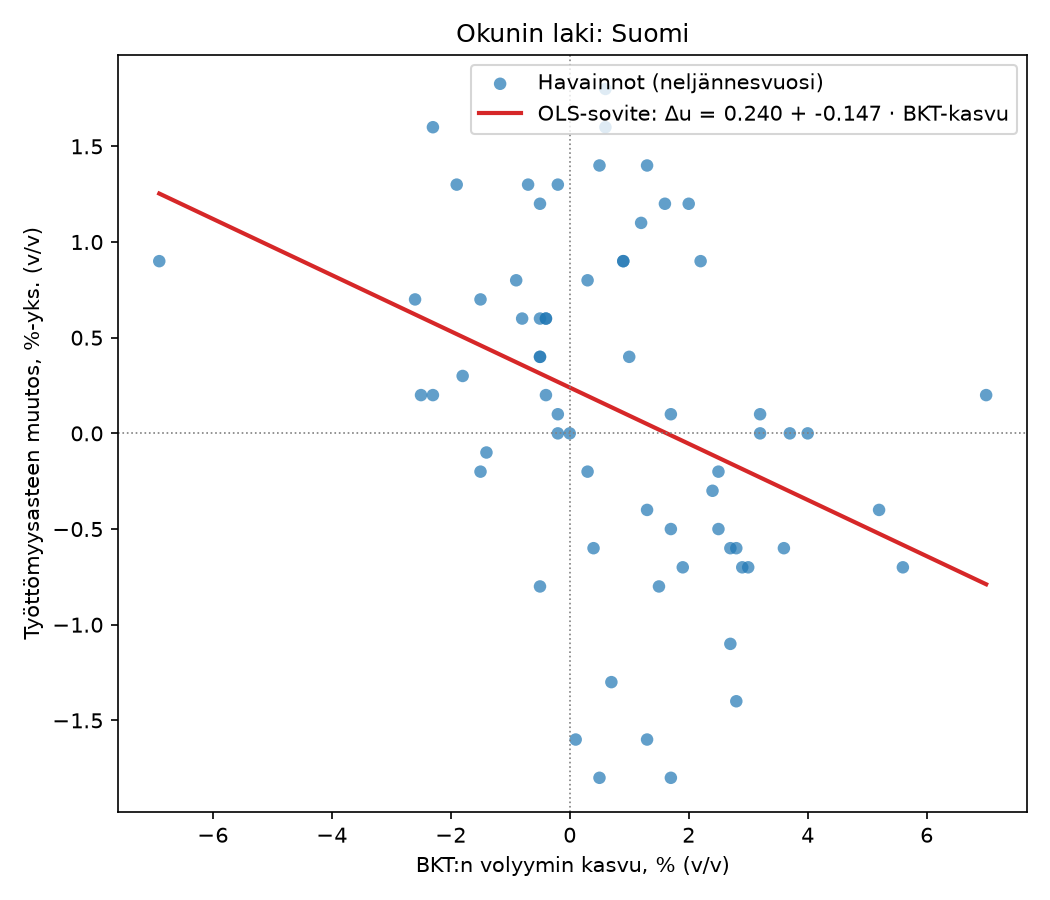
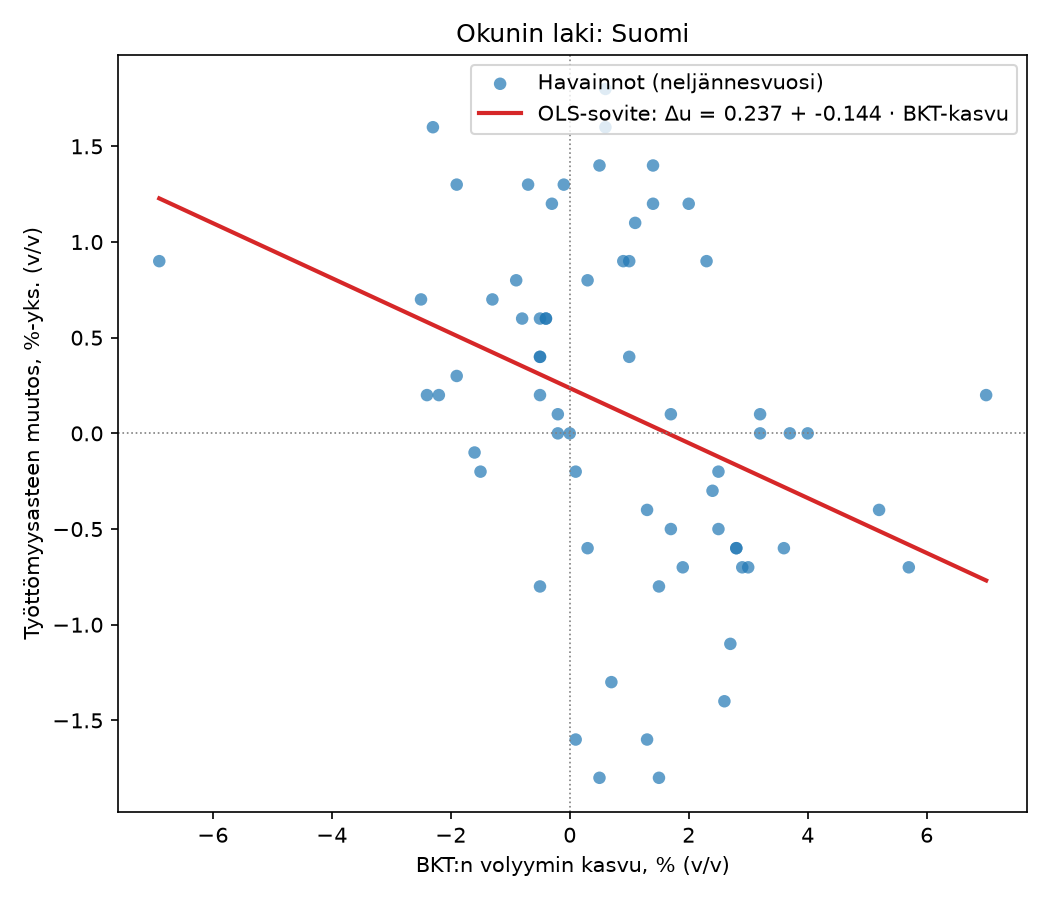
Päivitä tulokset.md ja kuvat (kuukausittainen ajo)

diff --git a/tulokset.md b/tulokset.md
@@ -1,6 +1,6 @@
 # Okunin lain analyysin tulokset — Suomi
 
-- **Ajettu:** 2026-09-03 19:08:21 UTC
+- **Ajettu:** 2026-10-01 11:25:38 UTC
 - **Datan viimeinen havainto (v/v-aineisto):** 2026Q2
 - **Datan viimeinen havainto (q/q-aineisto):** 2026Q2
 - **Lähde:** Tilastokeskuksen PxWeb-rajapinta (StatFin), haettu ajonaikaisesti — ei kovakoodattua tai simuloitua dataa.
@@ -15,11 +15,11 @@ Aikaväli: 2010Q1 – 2026Q2  N = 66
 
 | Termi | Kerroin | Keskivirhe | t-arvo | p-arvo |
 |---|---:|---:|---:|---:|
-| Vakio (a) | 0.2397 | 0.1103 | 2.172 | 0.0335 |
-| BKT-kasvu (b) | -0.1469 | 0.0471 | -3.117 | 0.0027 |
+| Vakio (a) | 0.2368 | 0.1107 | 2.139 | 0.0363 |
+| BKT-kasvu (b) | -0.1437 | 0.0474 | -3.033 | 0.0035 |
 
-- Selitysaste R²: 0.1318
-- Kynnyskasvu -a/b: **1.632 %/vuosi** (BKT:n kasvuvauhti, jolla työttömyysaste ei muutu)
+- Selitysaste R²: 0.1256
+- Kynnyskasvu -a/b: **1.648 %/vuosi** (BKT:n kasvuvauhti, jolla työttömyysaste ei muutu)
 
 ## 2. Robustisuustarkastelu
 
@@ -29,14 +29,14 @@ N = 66, selittäjiä (vakio mukaan lukien) k = 2, vapausasteet df_resid = N-k = 
 
 | Termi | Kerroin | OLS-SE | NW-SE | AM-SE (esivalk.) |
 |---|---:|---:|---:|---:|
-| const | 0.2397 | 0.1103 | 0.1817 | 0.2830 |
-| bkt_kasvu | -0.1469 | 0.0471 | 0.0222 | 0.0270 |
+| const | 0.2368 | 0.1107 | 0.1831 | 0.2880 |
+| bkt_kasvu | -0.1437 | 0.0474 | 0.0217 | 0.0262 |
 
 - Newey–West-viiveet L = 4; Andrews–Monahan-esivalkaisun jälkeiset viiveet L = 3
 - Päätulokseksi valittu (konservatiivisin): **Andrews–Monahan (esivalk.)** (suurempi SE kahdesta HAC-vaihtoehdosta BKT-kasvun kokonaisvaikutukselle)
-- Durbin–Watson: 0.466 (2.0 = ei autokorrelaatiota; <2 → positiivinen)
-- Breusch–Godfrey (L=4): LM=39.130, p=0.0000 (H0: ei jäljellä olevaa autokorrelaatiota)
-- Kynnyskasvu -a/Σb: **1.632 %/vuosi**
+- Durbin–Watson: 0.459 (2.0 = ei autokorrelaatiota; <2 → positiivinen)
+- Breusch–Godfrey (L=4): LM=39.535, p=0.0000 (H0: ei jäljellä olevaa autokorrelaatiota)
+- Kynnyskasvu -a/Σb: **1.648 %/vuosi**
 
 ### 2.2 Otosvertailu: koko aineisto / ilman 2020–2021 / covid-dummy
 
@@ -44,9 +44,9 @@ Keskivirheet ovat kunkin mallin konservatiivisimman HAC-vaihtoehdon mukaisia (su
 
 | Malli | Vakio a (SE) | BKT-kerroin b (SE) | Covid-dummy (SE) | R² | N | -a/Σb, %/v |
 |---|---:|---:|---:|---:|---:|---:|
-| Koko aineisto (v/v) | 0.240 (0.283) | -0.147 (0.027) | – | 0.1318 | 66 | 1.632 |
-| Ilman 2020–2021 | 0.206 (0.296) | -0.143 (0.040) | – | 0.0881 | 58 | 1.445 |
-| Covid-dummy mukana | 0.206 (0.313) | -0.142 (0.029) | 0.248 (0.423) | 0.1400 | 66 | 1.446 |
+| Koko aineisto (v/v) | 0.237 (0.288) | -0.144 (0.026) | – | 0.1256 | 66 | 1.648 |
+| Ilman 2020–2021 | 0.201 (0.297) | -0.137 (0.039) | – | 0.0810 | 58 | 1.464 |
+| Covid-dummy mukana | 0.203 (0.315) | -0.139 (0.027) | 0.250 (0.424) | 0.1340 | 66 | 1.457 |
 
 ### 2.3 Kausitasoituksen varmistus (q/q-sarjat)
 
@@ -63,20 +63,20 @@ N = 65, selittäjiä (vakio mukaan lukien) k = 6, vapausasteet df_resid = N-k = 
 
 | Termi | Kerroin | OLS-SE | NW-SE | AM-SE (esivalk.) |
 |---|---:|---:|---:|---:|
-| const | 0.1066 | 0.0474 | 0.0451 | 0.0415 |
-| bkt_kasvu_qoq_L0 | -0.1100 | 0.0359 | 0.0322 | 0.0312 |
-| bkt_kasvu_qoq_L1 | -0.0905 | 0.0367 | 0.0353 | 0.0381 |
-| bkt_kasvu_qoq_L2 | -0.0747 | 0.0362 | 0.0244 | 0.0243 |
-| bkt_kasvu_qoq_L3 | -0.0222 | 0.0367 | 0.0217 | 0.0218 |
-| bkt_kasvu_qoq_L4 | -0.0805 | 0.0357 | 0.0240 | 0.0225 |
+| const | 0.1053 | 0.0483 | 0.0452 | 0.0414 |
+| bkt_kasvu_qoq_L0 | -0.1035 | 0.0363 | 0.0322 | 0.0313 |
+| bkt_kasvu_qoq_L1 | -0.1000 | 0.0371 | 0.0338 | 0.0363 |
+| bkt_kasvu_qoq_L2 | -0.0764 | 0.0367 | 0.0251 | 0.0253 |
+| bkt_kasvu_qoq_L3 | -0.0246 | 0.0371 | 0.0227 | 0.0229 |
+| bkt_kasvu_qoq_L4 | -0.0783 | 0.0360 | 0.0237 | 0.0220 |
 
 - Newey–West-viiveet L = 3; Andrews–Monahan-esivalkaisun jälkeiset viiveet L = 3
 - Päätulokseksi valittu (konservatiivisin): **Andrews–Monahan (esivalk.)** (suurempi SE kahdesta HAC-vaihtoehdosta BKT-kasvun kokonaisvaikutukselle)
-- Durbin–Watson: 2.115 (2.0 = ei autokorrelaatiota; <2 → positiivinen)
-- Breusch–Godfrey (L=3): LM=3.999, p=0.2616 (H0: ei jäljellä olevaa autokorrelaatiota)
-- BKT-kasvun pitkän aikavälin vaikutus (Σb, 5 viivettä, Andrews–Monahan (esivalk.)-SE): Σb = -0.3779, SE = 0.0787, t = -4.803, p = 0.0000
-- Viiveiden yhteismerkitsevyys (Wald F, H0: kaikki BKT-viiveiden kertoimet = 0): F(5,59) = 9.762, p = 0.0000
-- Kynnyskasvu -a/Σb: 0.282 %/neljännes → annualisoituna **1.133 %/vuosi**
+- Durbin–Watson: 2.153 (2.0 = ei autokorrelaatiota; <2 → positiivinen)
+- Breusch–Godfrey (L=3): LM=3.479, p=0.3235 (H0: ei jäljellä olevaa autokorrelaatiota)
+- BKT-kasvun pitkän aikavälin vaikutus (Σb, 5 viivettä, Andrews–Monahan (esivalk.)-SE): Σb = -0.3829, SE = 0.0811, t = -4.724, p = 0.0000
+- Viiveiden yhteismerkitsevyys (Wald F, H0: kaikki BKT-viiveiden kertoimet = 0): F(5,59) = 9.700, p = 0.0000
+- Kynnyskasvu -a/Σb: 0.275 %/neljännes → annualisoituna **1.105 %/vuosi**
 
 ### 2.5 Jäännösten kausivaihtelutesti
 
@@ -84,12 +84,12 @@ Malli: Neljännesmuutokset, viiveet 0-4 (q/q). Apuregressio: OLS-jäännös ~ va
 
 | Termi | Kerroin | SE | t | p |
 |---|---:|---:|---:|---:|
-| const | -0.0049 | 0.0851 | -0.058 | 0.9541 |
-| Q_2 | -0.0280 | 0.1185 | -0.237 | 0.8137 |
-| Q_3 | 0.0715 | 0.1203 | 0.594 | 0.5546 |
-| Q_4 | -0.0217 | 0.1203 | -0.181 | 0.8573 |
+| const | -0.0074 | 0.0864 | -0.086 | 0.9319 |
+| Q_2 | -0.0468 | 0.1204 | -0.389 | 0.6987 |
+| Q_3 | 0.0876 | 0.1222 | 0.717 | 0.4762 |
+| Q_4 | -0.0077 | 0.1222 | -0.063 | 0.9499 |
 
-Yhteismerkitsevyys (F-testi, H0: ei kausivaihtelua jäännöksissä): F(3,61) = 0.291, p = 0.8316
+Yhteismerkitsevyys (F-testi, H0: ei kausivaihtelua jäännöksissä): F(3,61) = 0.439, p = 0.7258
 
 **p ≥ 0.05: ei tilastollista näyttöä jäljellä olevasta kausivaihtelusta** jäännöksissä.
 
@@ -99,8 +99,8 @@ BKT:n kasvuvauhti (%/vuosi), jolla työttömyysaste ei muutu. q/q-mallien neljä
 
 | Spesifikaatio | Alkuperäinen yksikkö | Kynnyskasvu, %/vuosi |
 |---|---|---:|
-| Alkuperäinen (v/v, OLS, ei-robusti) | v/v | 1.632 |
-| Koko aineisto (v/v, konservatiivinen HAC) | v/v | 1.632 |
-| Ilman 2020–2021 (v/v, konservatiivinen HAC) | v/v | 1.445 |
-| Covid-dummy, ei-covid-tila (v/v, konservatiivinen HAC) | v/v | 1.446 |
-| Neljännesmuutokset, Σb viiveille 0-4 (q/q, konservatiivinen HAC) | q/q | 1.133 |
+| Alkuperäinen (v/v, OLS, ei-robusti) | v/v | 1.648 |
+| Koko aineisto (v/v, konservatiivinen HAC) | v/v | 1.648 |
+| Ilman 2020–2021 (v/v, konservatiivinen HAC) | v/v | 1.464 |
+| Covid-dummy, ei-covid-tila (v/v, konservatiivinen HAC) | v/v | 1.457 |
+| Neljännesmuutokset, Σb viiveille 0-4 (q/q, konservatiivinen HAC) | q/q | 1.105 |
